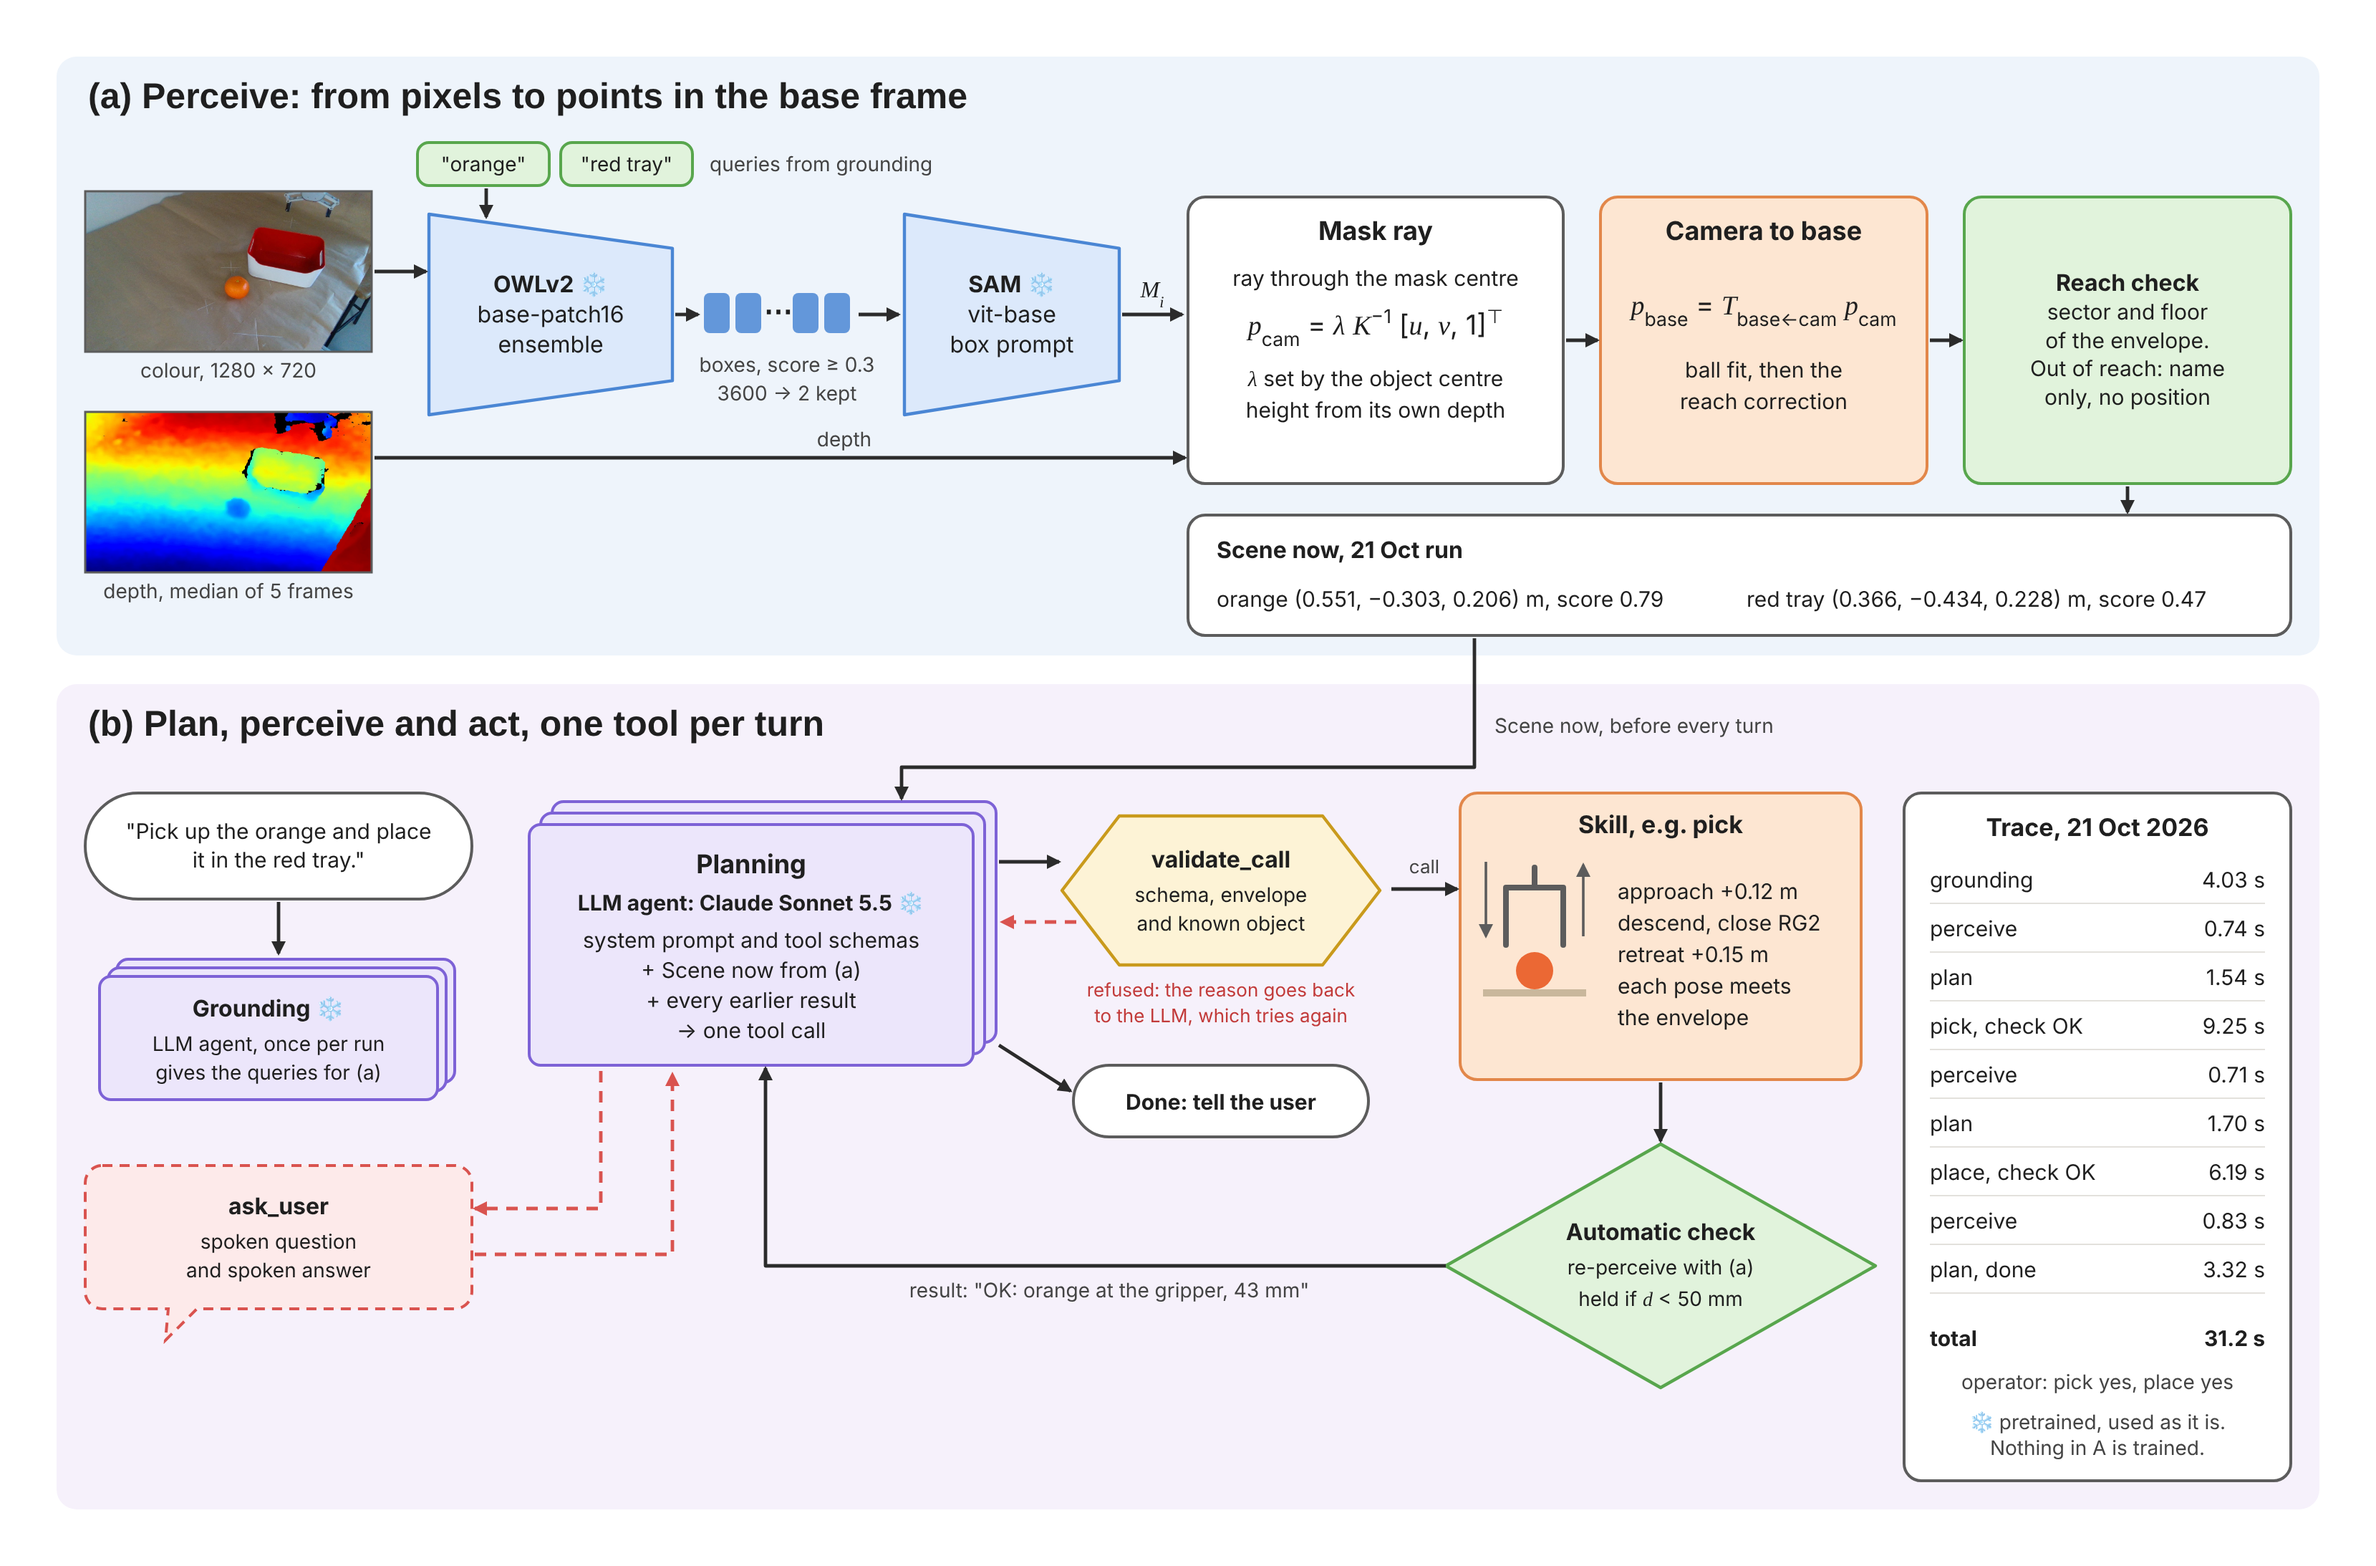
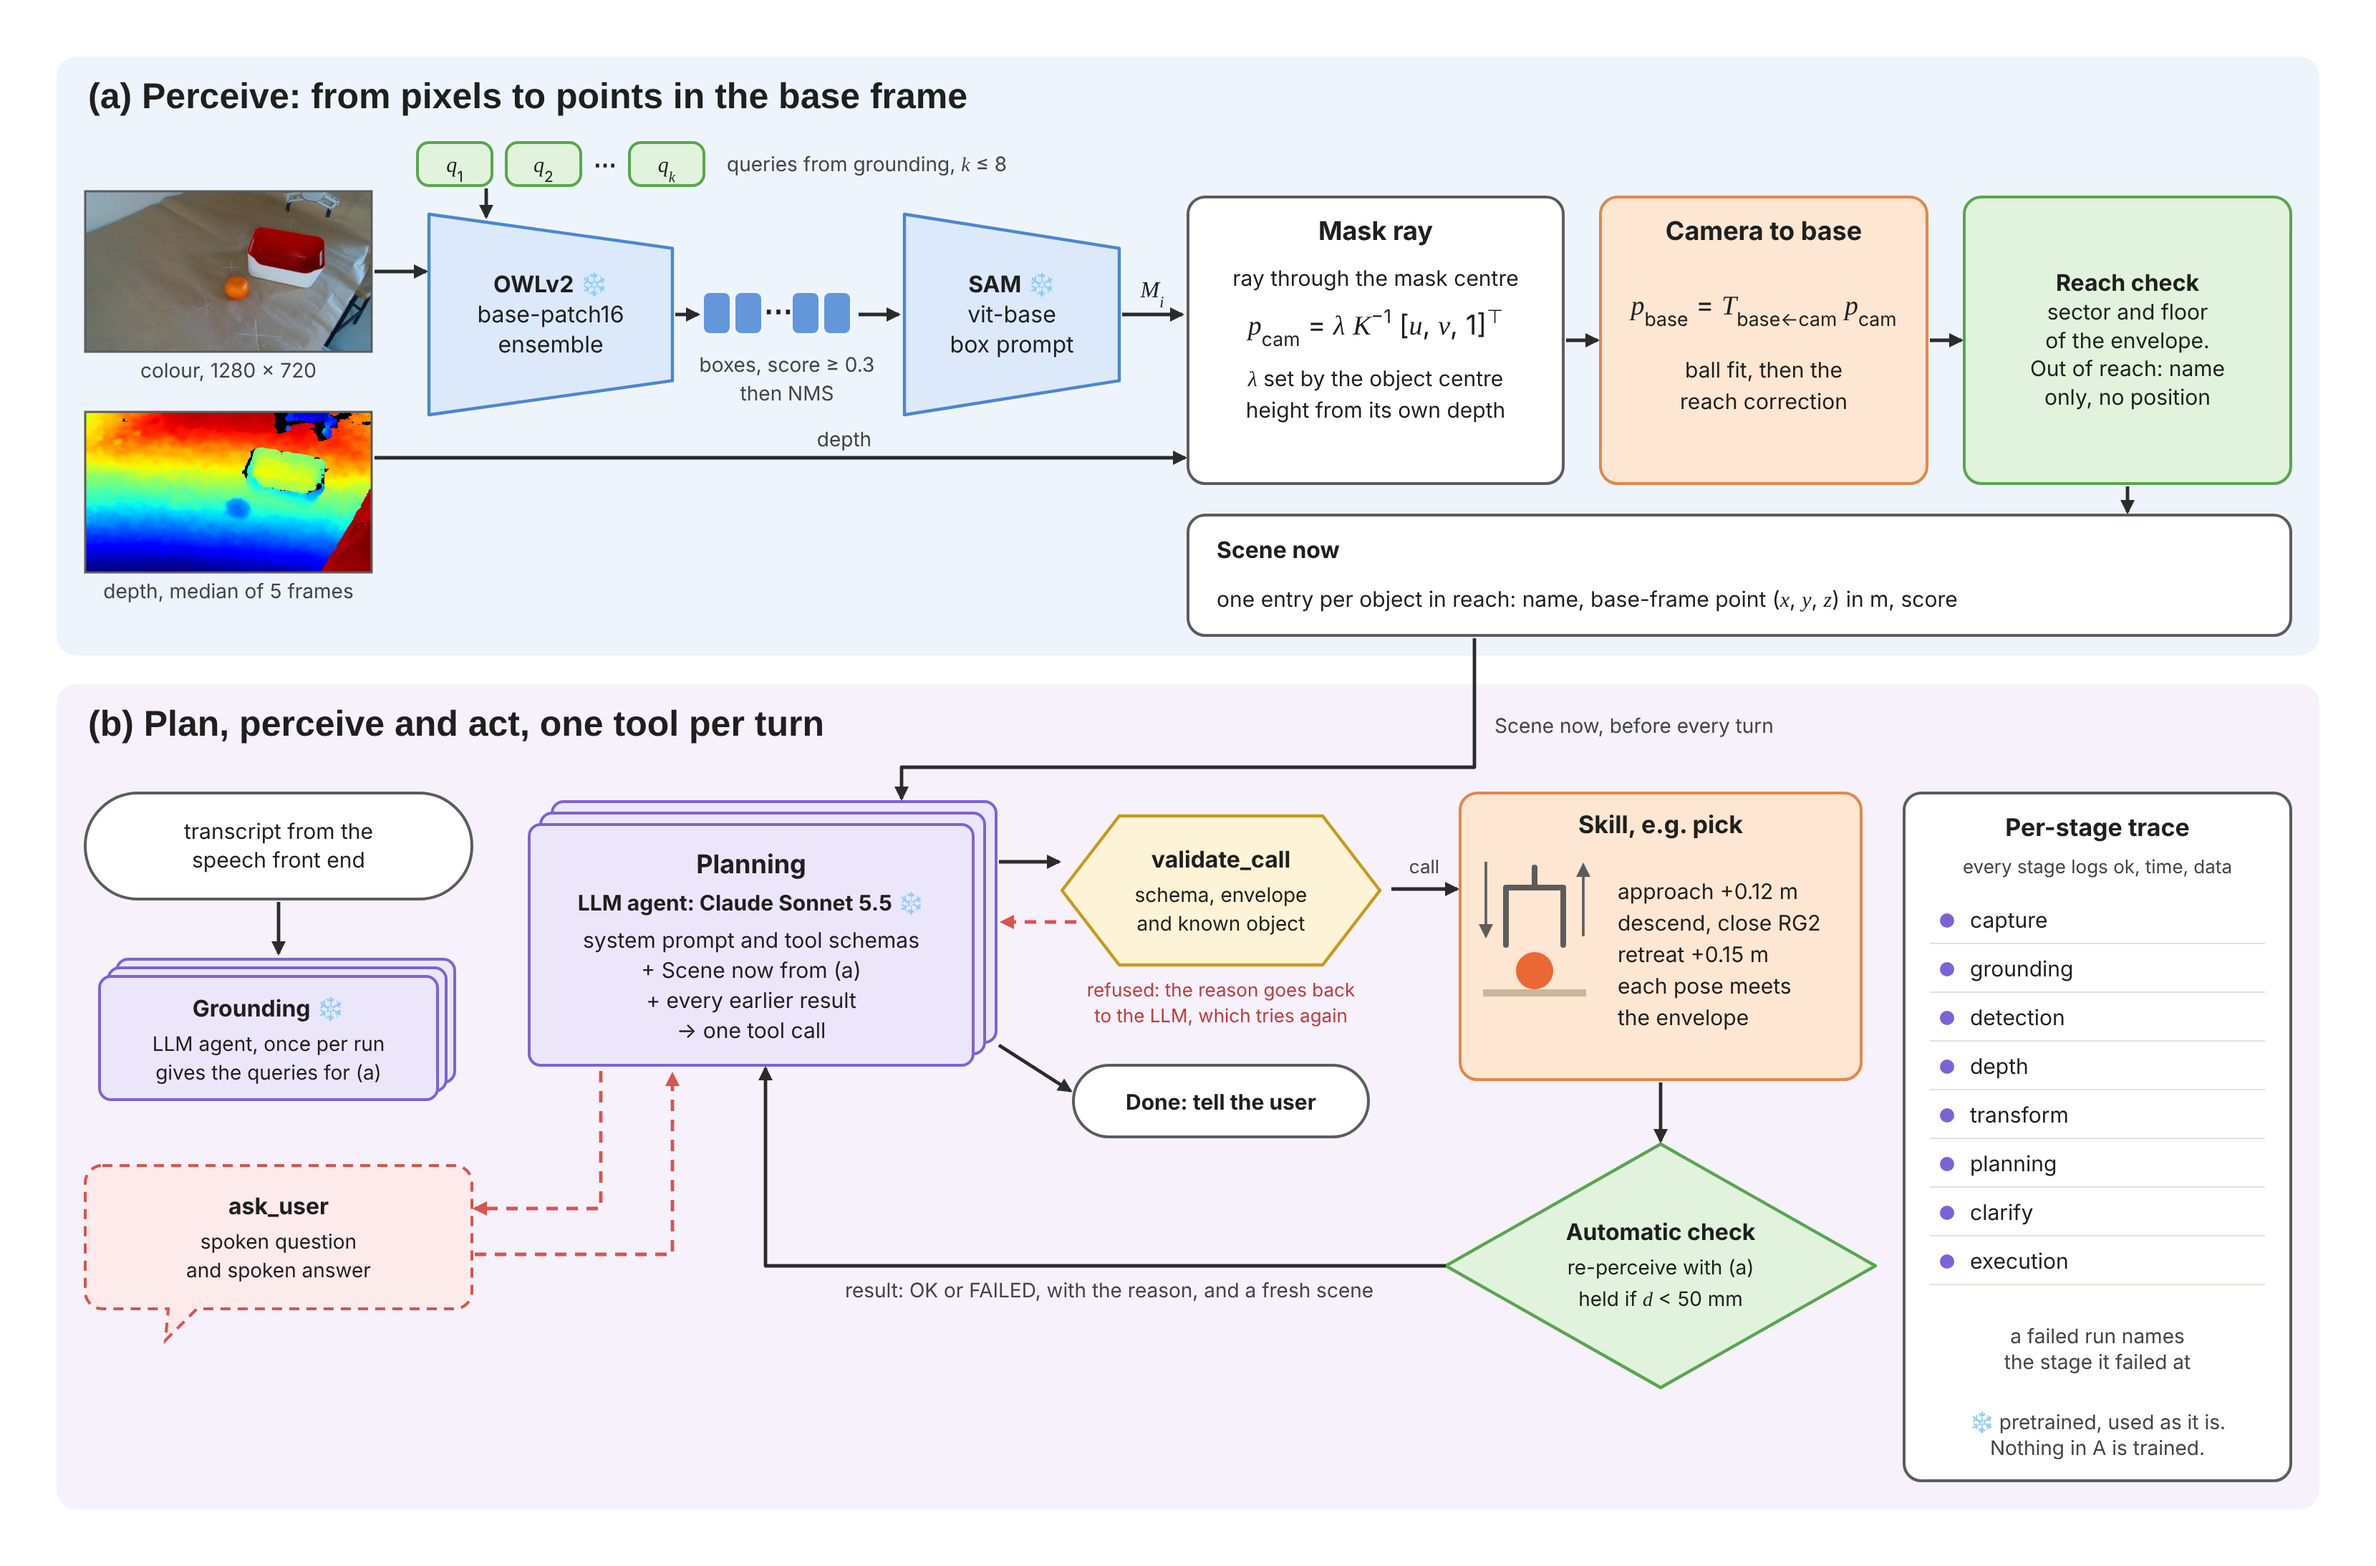
docs: keep the architecture diagrams generic and chart the 21 Oct run apart
Figures 3 and 8 now explain the architectures only: queries, scene
entries, results and the trace use placeholders and stage names, not
values from a run. The 21 Oct stage times move to their own bar chart,
built from the trace file by trace_chart.py. Figure 1's self-attention
to cross-attention arrow now has a visible shaft.

Claude-Session: https://claude.ai/code/session_01LcWP8SxHZYg9mZUgJ4ePW2

diff --git a/docs/interim/figures/trace_chart.py b/docs/interim/figures/trace_chart.py
@@ -1,0 +1,48 @@
+"""Stage times of the clean 21 Oct 2026 run, from the trace file ecde8905-20261021T044917Z-ac926b.jsonl."""
+import json, sys
+import matplotlib; matplotlib.use('Agg')
+import matplotlib.pyplot as plt
+from matplotlib import font_manager as fm
+for f in fm.findSystemFonts():
+    if 'Inter' in f: fm.fontManager.addfont(f)
+plt.rcParams.update({'font.family': 'Inter', 'font.size': 11, 'axes.edgecolor': '#9a9893',
+                     'xtick.color': '#52514e', 'ytick.color': '#1f1f1f'})
+ev = [json.loads(l) for l in open(sys.argv[1]) if l.strip()]
+# group the events into the steps the loop takes
+steps, cur = [], None
+names = {'grounding': 'Grounding', 'planning': 'Plan', 'execution': None}
+perceive = 0.0
+skills = iter(['Pick and check', 'Place and check'])
+for e in ev:
+    if e['type'] != 'event': continue
+    st, d = e['stage'], e['duration_s']
+    if st in ('capture', 'detection', 'depth', 'transform'):
+        perceive += d; continue
+    if perceive:
+        steps.append(('Perceive', perceive)); perceive = 0.0
+    if st == 'grounding': steps.append(('Grounding', d))
+    elif st == 'planning': steps.append(('Plan', d))
+    elif st == 'execution': steps.append((next(skills), d))
+total = [e for e in ev if e['type'] == 'run_end'][0]['total_s']
+labels = [f'{i + 1}. {n}' for i, (n, _) in enumerate(steps)]; labels[-1] = labels[-1] + ', done'
+vals = [v for _, v in steps]
+cols = ['#e2874a' if 'check' in n else '#7d62d6' if n in ('Plan', 'Grounding') else '#4a86d4' for n, _ in steps]
+fig, ax = plt.subplots(figsize=(7.4, 3.6), dpi=240)
+y = range(len(vals))[::-1]
+ax.barh(list(y), vals, color=cols, height=0.62, zorder=3)
+for yi, v in zip(y, vals):
+    ax.text(v + 0.15, yi, f'{v:.2f} s', va='center', fontsize=10, color='#1f1f1f')
+ax.set_yticks(list(y), labels)
+ax.set_xlabel('Time (s)', color='#1f1f1f')
+ax.set_xlim(0, max(vals) * 1.18)
+ax.grid(axis='x', color='#e6e4df', zorder=0)
+ax.spines[['top', 'right', 'left']].set_visible(False)
+ax.tick_params(axis='y', length=0)
+from matplotlib.patches import Patch
+ax.legend(handles=[Patch(color='#7d62d6', label='LLM'), Patch(color='#4a86d4', label='Perception'),
+                   Patch(color='#e2874a', label='Arm motion and check')],
+          frameon=False, loc='upper right', fontsize=10)
+ax.set_title(f'Total {total:.1f} s, of which arm motion {sum(v for n, v in steps if "check" in n):.1f} s',
+             fontsize=11, color='#52514e', loc='left')
+fig.tight_layout(); fig.savefig(sys.argv[2], facecolor='white')
+print(steps, total)
